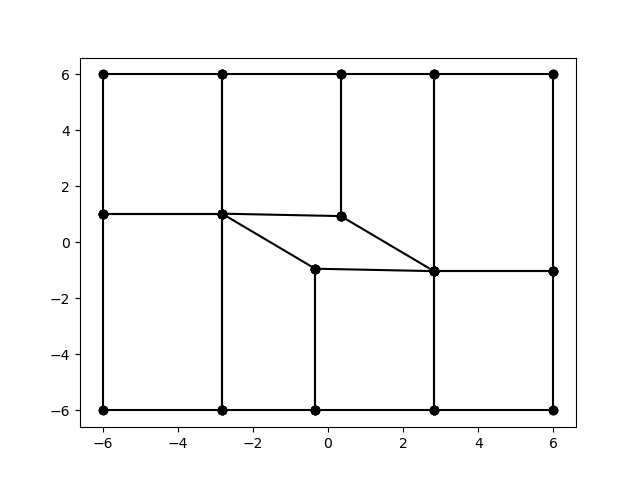
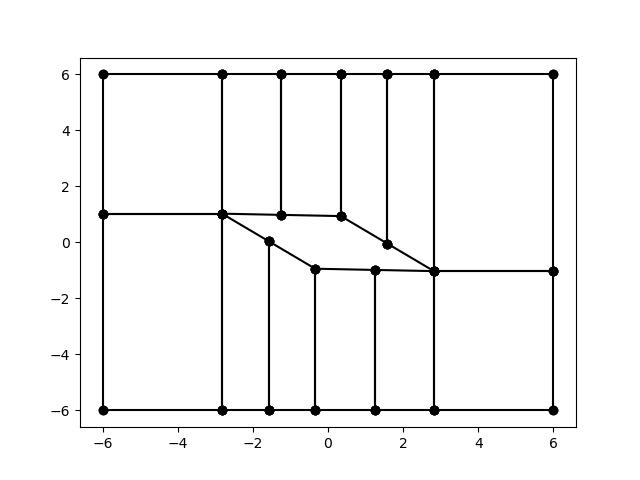
try

diff --git a/meshing/mesh_gen.py b/meshing/mesh_gen.py
@@ -149,7 +149,7 @@ def main(c,t,lf,lw,ht,hb,alpha, n_foil, n_north, n_east, n_south, n_west, e_foil
     cn(nodes[5].x,hb)
     cn(nodes[6].x,hb)
     cn(nodes[7].x,hb)
-    cn(nodes[8].x,hb)
+    cn(nodes[0].x,hb)
     cn(lw,hb)
 
     nodes += [node.flip_z() for node in nodes]
@@ -350,12 +350,12 @@ if __name__ == '__main__':
         ht = 6,
         hb = 6,
         alpha = -20,
-        n_foil = 480,
-        n_north = 200,
+        n_foil = 200,
+        n_north = 150,
         n_east= 80,
         n_south= 150,
         n_west=40,
-        e_foil=1,
+        e_foil=10,
         e_north=50,
         e_east=10,
         e_south=50,
